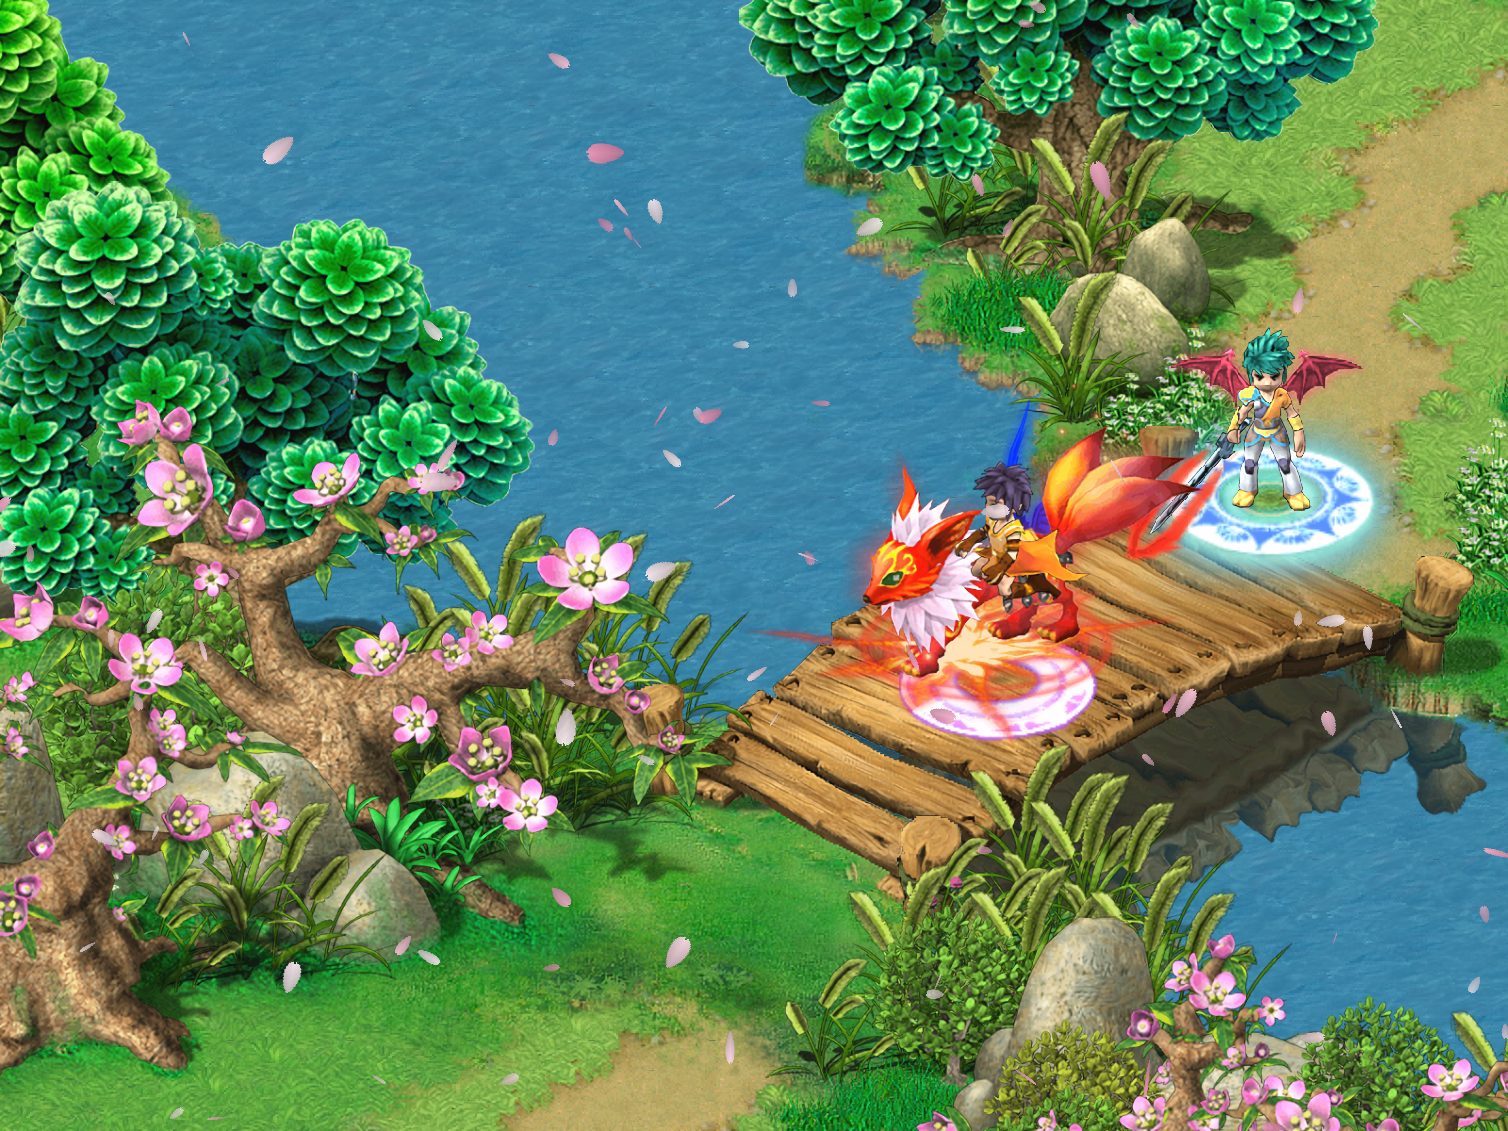
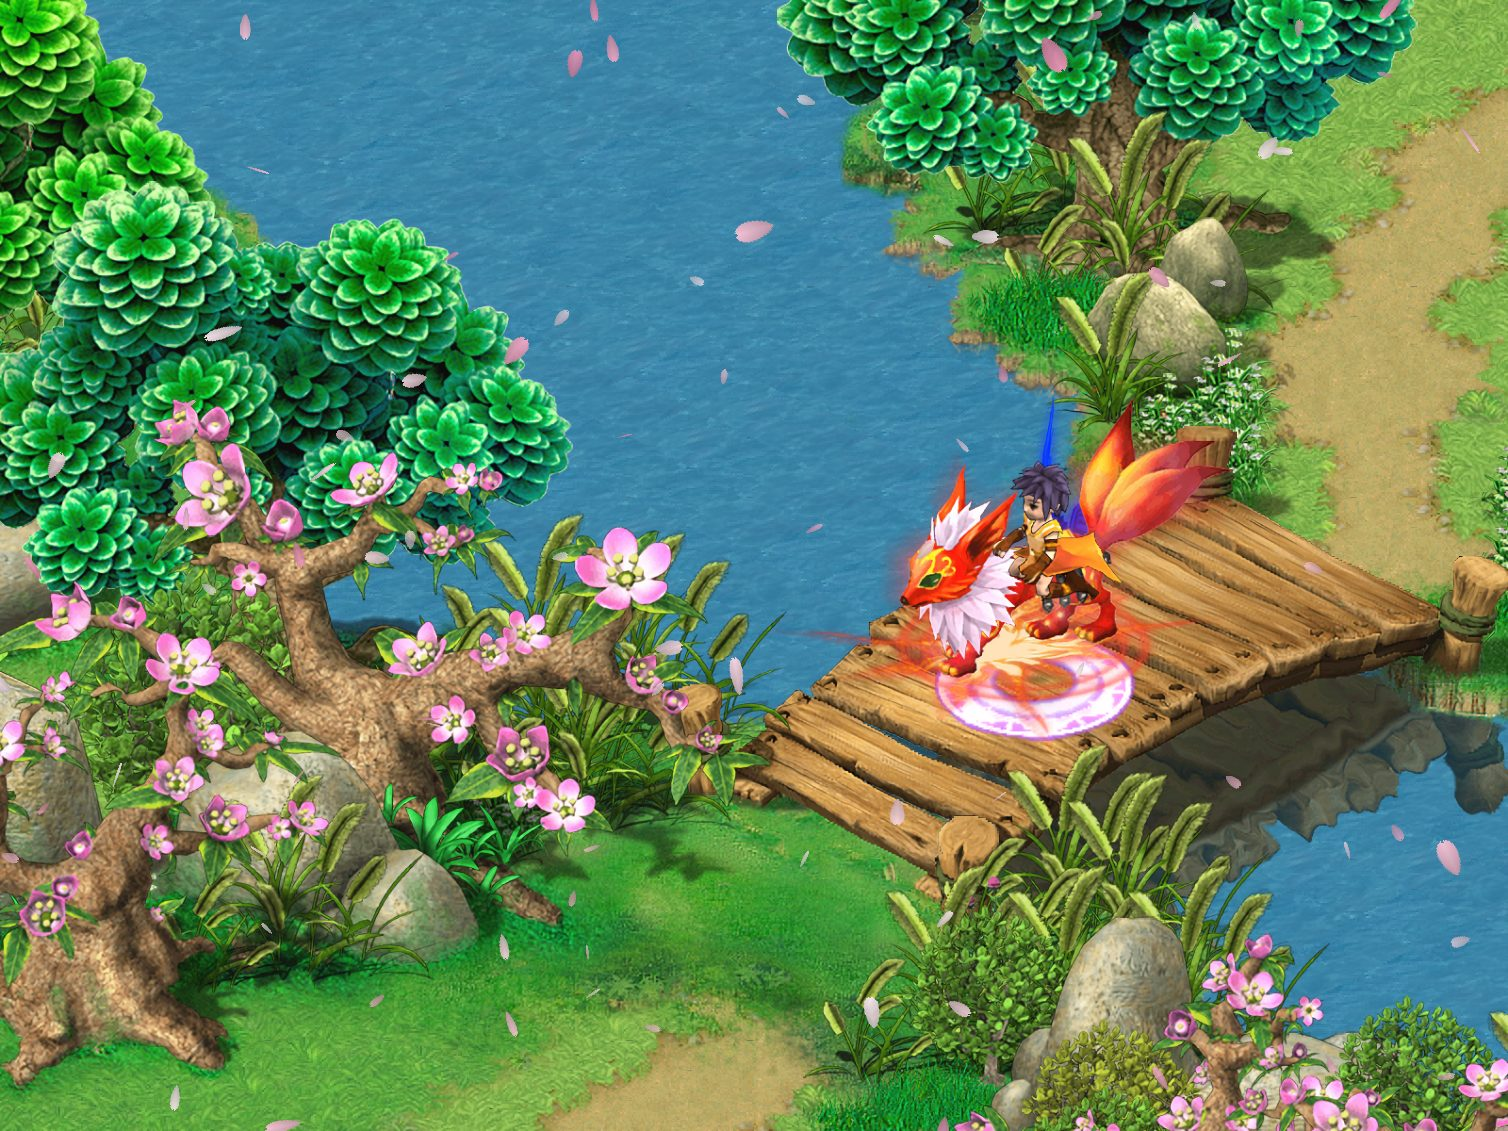
Ảnh nền đầu trang: một nhân vật cưỡi Hỏa Hồ Ly trên cầu gỗ (mặt rõ, không lá che); hai ảnh 1508 + bản rộng 2880 (picture theo bề rộng màn), bỏ lớp làm mờ hai bên, ảnh luôn <= 1:1

diff --git a/css/style.css b/css/style.css
@@ -642,22 +642,16 @@ html.vpage { scroll-padding-top: 122px; }
 /* ---------- đầu trang (lần 3: ảnh Đào Hoa phủ toàn khung) ----------
    Lớp màu: tối dần về bên trái (khối chữ nằm trên sông) và mép dưới (dải số liệu), giữ hoa đào bên phải rõ.
    Điện thoại: ảnh dọc riêng, tối dần từ dưới lên, chữ căn giữa. */
-/* Không phóng ảnh quá cỡ gốc (chủ repo: "ảnh nền to quá bị mờ"): ảnh chụp game chỉ 1508x1131, phóng lên là nhoè.
-   Khung đầu trang cao vừa phải (560 tới 660 px) và khung ảnh rộng tối đa 1508 px giữa màn, nên `cover` luôn <= 1:1
-   (1440 px: 0,955; 1024 px: 0,68). Màn rộng hơn 1508 px: hai bên tô bằng chính ảnh đó (bản nhỏ) làm mờ + tối,
-   mép ảnh chính mờ dần vào cho liền. Bỏ hiệu ứng phóng chậm (scale 1,08 cũng là phóng quá cỡ). */
+/* Không phóng ảnh quá cỡ gốc (chủ repo: "ảnh nền to quá bị mờ") và KHÔNG làm mờ hai bên (chủ repo 2026-10-06): hai ảnh
+   chụp từ game (`./run.sh shot --demo-hero`, tools/README "Ảnh nền nhân vật"): màn <= 1508 px dùng bản 1508x1131 (nhân vật to,
+   1440 px hiện 0,955 lần), màn rộng hơn dùng bản rộng 2880x1200 zoom 1 (1920 px: 0,67 lần; 2560 px: 0,89 lần), luôn <= 1:1.
+   Màn rộng hơn 2880 px (hiếm): khung ảnh dừng ở 2880, hai bên nền tối trơn. */
 .hero3 { position: relative; overflow: hidden; isolation: isolate; display: flex; flex-direction: column;
   min-height: clamp(560px, 74vh, 660px); background: var(--ink-900); border-bottom: 1px solid var(--line); }
-.hero3__fill { position: absolute; inset: -40px; z-index: -3; background: var(--ink-900) url("../assets/img/hero-bg.jpg") center / cover;
-  filter: blur(22px) brightness(.42) saturate(1.1); }
-.hero3__bg { position: absolute; top: 0; bottom: 0; left: 50%; width: 100%; max-width: 1508px; transform: translateX(-50%); z-index: -2; }
+.hero3__bg { position: absolute; top: 0; bottom: 0; left: 50%; width: 100%; max-width: 2880px; transform: translateX(-50%); z-index: -2; }
+.hero3__bg picture { display: block; width: 100%; height: 100%; }
 .hero3__bg img { width: 100%; height: 100%; object-fit: cover; object-position: 50% 40%; }
-/* Dưới 1509 px khung ảnh đã phủ hết bề ngang: không cần lớp mờ (đỡ tốn bộ lọc blur). */
-@media (max-width: 1508px) { .hero3__fill { display: none; } }
-@media (min-width: 1509px) {
-  .hero3__bg { -webkit-mask-image: linear-gradient(90deg, transparent, #000 7%, #000 93%, transparent);
-    mask-image: linear-gradient(90deg, transparent, #000 7%, #000 93%, transparent); }
-}
+@media (min-width: 1509px) { .hero3__bg img { object-position: 60% 45%; } }
 .hero3::before { content: ""; position: absolute; inset: 0; z-index: -1; pointer-events: none;
   background:
     linear-gradient(90deg, rgba(7, 13, 34, .84) 0%, rgba(7, 13, 34, .66) 32%, rgba(7, 13, 34, .22) 56%, rgba(7, 13, 34, 0) 74%),

diff --git a/index.html b/index.html
@@ -48,13 +48,15 @@
        chưa đẹp, làm lại", "ảnh nền to quá bị mờ"). Nền: MỘT file assets/img/hero-bg.jpg (ảnh chụp game 1508x1131, không giao
        diện). Thay ảnh = ghi đè đúng file đó (cùng cỡ); nhân vật nên đứng ở nửa phải ảnh vì khối chữ nằm bên trái (điện thoại:
        giữa, chỉnh object-position ở .hero3__bg img trong style.css). Ảnh không bao giờ hiện quá 1:1 (xem comment .hero3 ở CSS);
-       hai bên màn rộng là chính file đó làm mờ (.hero3__fill). Ảnh tạm hiện tại: Đào Nguyên Thôn (map 289), hồ và hàng đào.
+       hai ảnh (picture): hero-bg.jpg 1508x1131 cho màn <= 1508 px, hero-bg-wide.jpg 2880x1200 cho màn rộng hơn; không làm mờ hai bên. Ảnh: một nhân vật cưỡi Hỏa Hồ Ly trên cầu gỗ Đào Nguyên Thôn (map 289), chụp bằng ./run.sh shot --demo-hero (tools/README repo game).
        Cánh hoa bay: 14 thẻ <i> trong .petals, CSS thuần, ẩn khi người xem chọn giảm chuyển động.
        Bản trước (ảnh trận Lữ Bố nửa trái, chữ nửa phải) chủ repo chê: ảnh đó chuyển xuống thẻ Cổ Mộ ở #co-gi.
        Link tải launcher có ở HAI chỗ: nút "Tải game" ở đây và nút "Tải launcher 3.1" ở #cai-dat. -->
   <section class="hero3">
-    <div class="hero3__fill" aria-hidden="true"></div>
-    <div class="hero3__bg" aria-hidden="true"><img src="assets/img/hero-bg.jpg" alt="" width="1508" height="1131" fetchpriority="high"></div>
+    <div class="hero3__bg" aria-hidden="true"><picture>
+      <source media="(min-width: 1509px)" srcset="assets/img/hero-bg-wide.jpg" width="2880" height="1200">
+      <img src="assets/img/hero-bg.jpg" alt="" width="1508" height="1131" fetchpriority="high">
+    </picture></div>
     <div class="petals" aria-hidden="true"><i></i><i></i><i></i><i></i><i></i><i></i><i></i><i></i><i></i><i></i><i></i><i></i><i></i><i></i></div>
     <div class="wrap hero3__in">
       <div class="hero3__copy">
